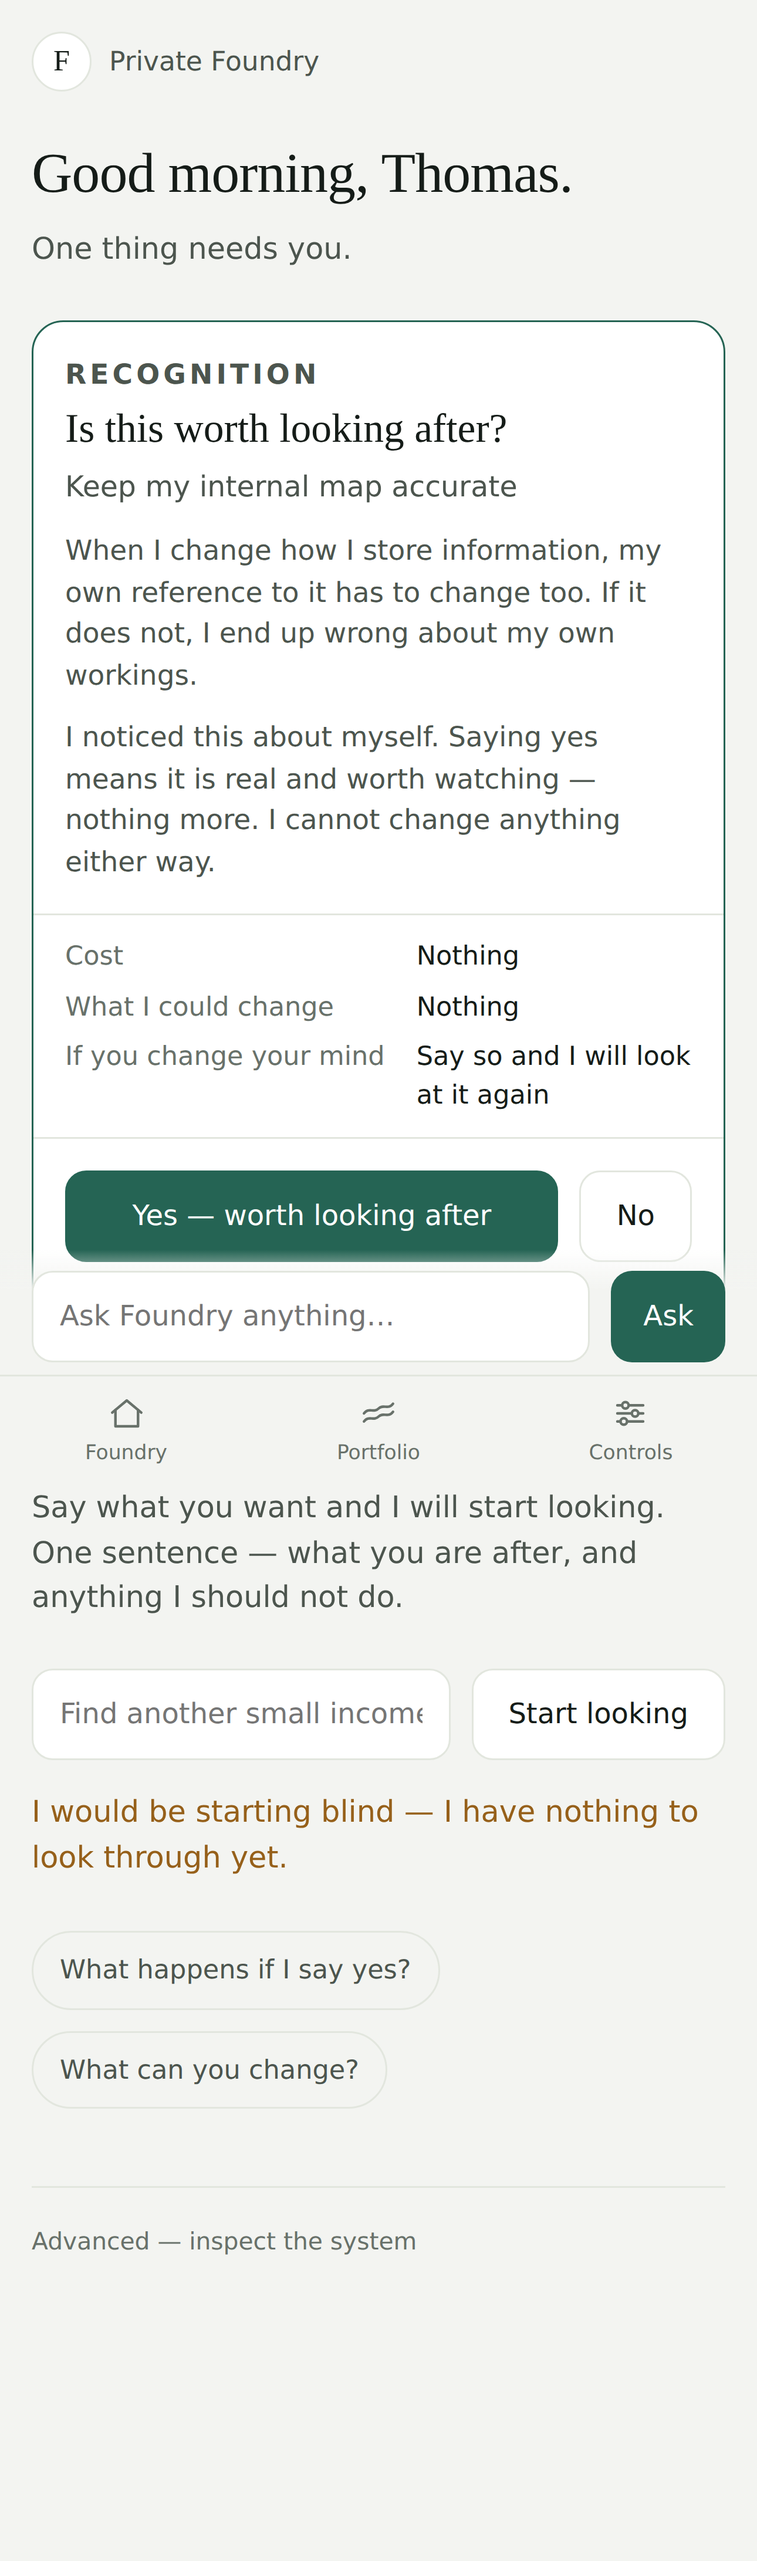
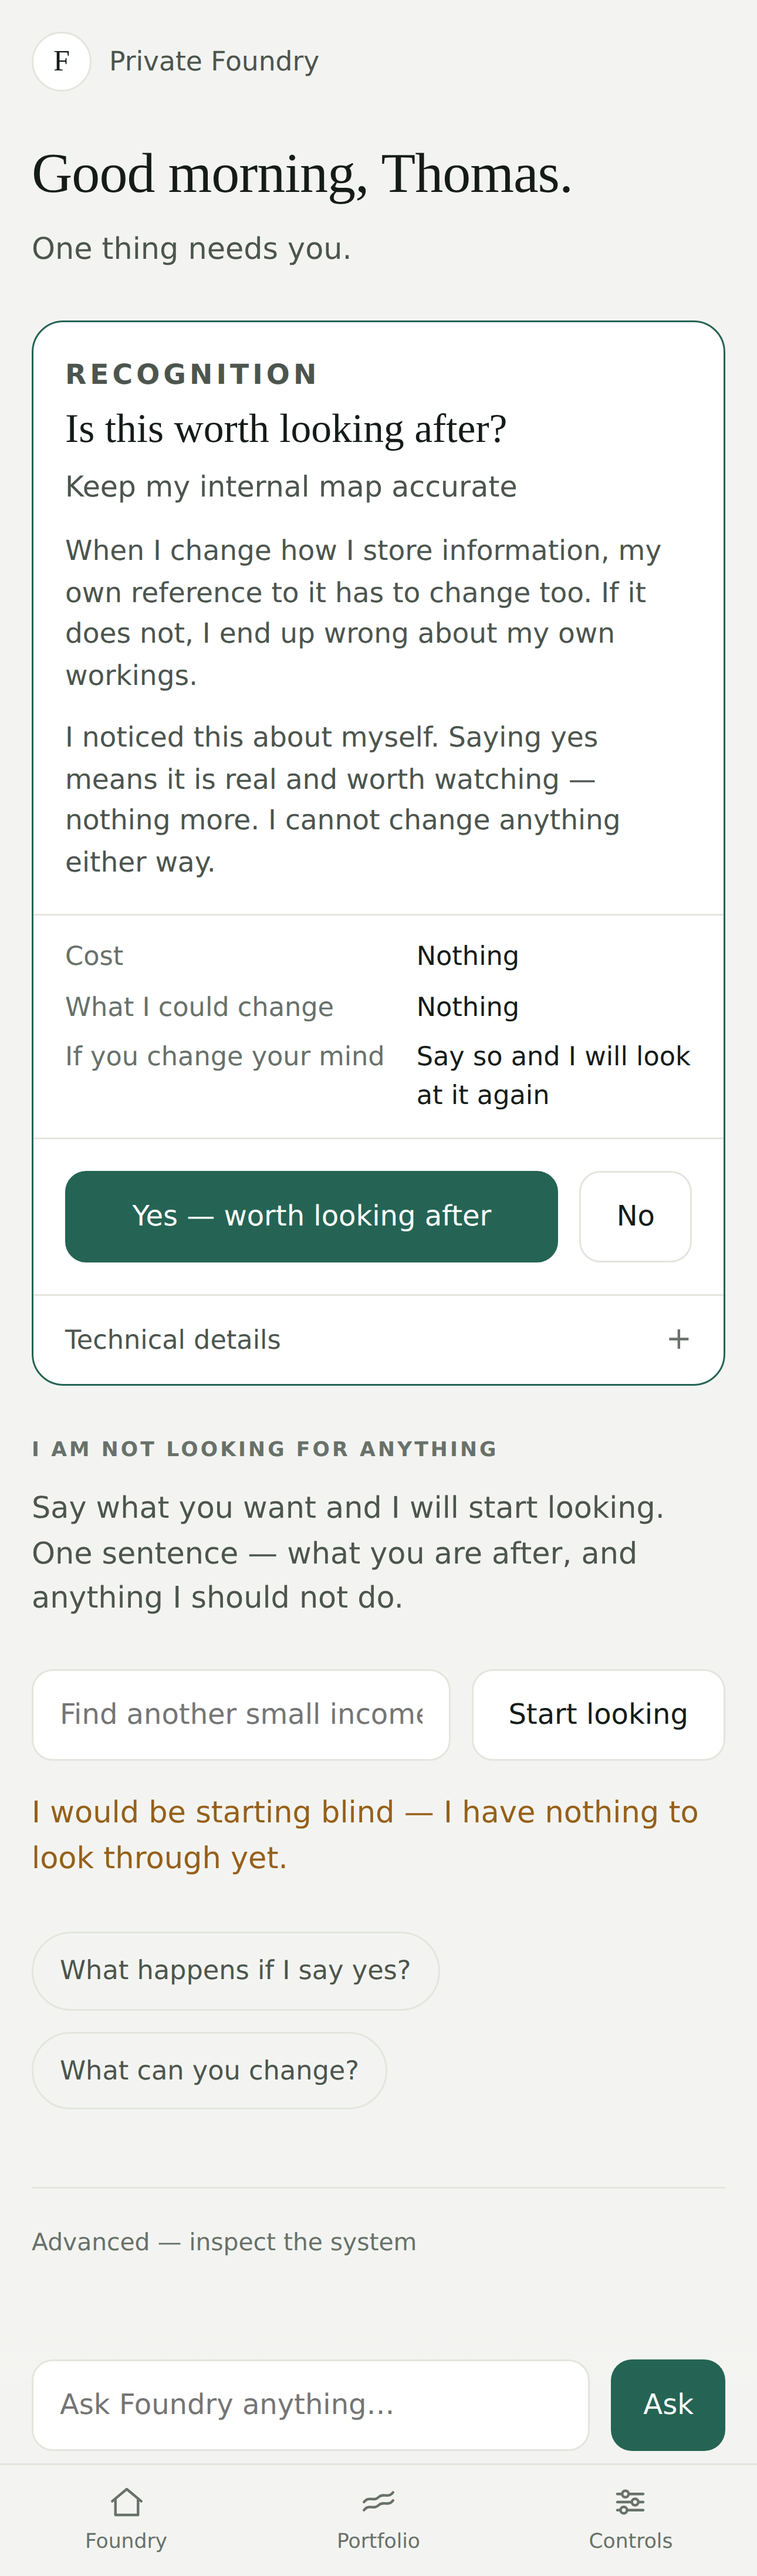
The phone he actually uses [deploy-private]
THE HOME INDICATOR WAS COUNTED TWICE. The tab bar reserves it, and the composer
sits on top of the tab bar and reserved it again — so on a notched iPhone the
composer floated a further 34px up and took that much off the bottom of every
page. The inset is counted once now, and the page's own reserve knows about both
bars instead of being a flat figure that knew about neither.

THE KEYBOARD SWALLOWED THE ENTRANCE. The composer is pinned to the bottom of the
window, and on iOS the software keyboard does not resize the window — so the one
field on the surface he types a mandate into sat behind the keyboard the moment
he started typing. It rides on the visual viewport now.

THE TEXTAREA HAD NO RULE AT ALL. The field he types eight hundred characters into
fell to the browser default, below the 16px floor, which makes iOS zoom in on
focus and never zoom back out. It now gets the same treatment as every other
field.

NOTHING HAPPENED WHEN HE PRESSED A BUTTON. Every page here is rendered by the
server, so between the tap and the next screen there was no spinner, no disabled
button, no change of any kind. On a slow connection that reads as a dead button,
and the honest response to a dead button is to press it again. There is a
delayed pending state now — delayed so a fast submission does not flicker.

AND THE KEYBOARD ITSELF. The fields gave iOS no hints, so the return key said
the wrong thing on every one of them and autocorrect was left to chance. The ask
[…]

diff --git a/src/routes/dashboard/foundry-shell.ts b/src/routes/dashboard/foundry-shell.ts
@@ -839,7 +839,11 @@ const page = (title: string, body: HtmlEscapedString | Promise<HtmlEscapedString
     font:400 17px/1.5 ui-sans-serif,system-ui,-apple-system,"Segoe UI",sans-serif;
     -webkit-text-size-adjust:100%;-webkit-font-smoothing:antialiased;
   }
-  .wrap{max-width:34rem;margin:0 auto;padding:var(--s3) var(--s3) 10.5rem}
+  /* ENOUGH ROOM FOR BOTH BARS AND THE HOME INDICATOR. The reserve was a flat
+     10.5rem that did not know about the inset, so on a notched phone the last
+     lines of every page sat underneath the composer. */
+  .wrap{max-width:34rem;margin:0 auto;
+    padding:var(--s3) var(--s3) calc(11rem + env(safe-area-inset-bottom))}
   h1{font-family:var(--serif);font-size:2rem;line-height:1.15;font-weight:500;
     letter-spacing:-.01em;margin:0 0 var(--s2)}
   .brand{display:flex;align-items:center;gap:10px;margin:0 0 var(--s4);color:var(--ink-2);
@@ -985,9 +989,13 @@ const page = (title: string, body: HtmlEscapedString | Promise<HtmlEscapedString
     display:inline-flex;align-items:center}
   .maybe a:focus-visible{outline:2px solid var(--accent);outline-offset:2px}
 
-  .ask{position:fixed;left:0;right:0;bottom:0;background:var(--bg);
+  .ask{position:fixed;left:0;right:0;bottom:var(--kb,0px);background:var(--bg);
     border-top:1px solid var(--line);
-    padding:var(--s2) var(--s3) calc(var(--s2) + env(safe-area-inset-bottom))}
+    /* THE INSET IS COUNTED ONCE. The tab bar below already reserves the home
+       indicator, and the composer sits on top of the tab bar — adding it again
+       here pushed the composer up by the height of the indicator a second time
+       and took that much off the bottom of every page. */
+    padding:var(--s2) var(--s3)}
   .ask-in{max-width:34rem;margin:0 auto;display:flex;gap:var(--s2)}
   .ask input{flex:1;min-width:0;font:inherit;font-size:max(16px,1rem);padding:13px 15px;min-height:48px;
     border:1px solid var(--line);border-radius:12px;background:var(--card);color:var(--ink)}
@@ -1010,7 +1018,7 @@ const page = (title: string, body: HtmlEscapedString | Promise<HtmlEscapedString
     stroke-linecap:round;stroke-linejoin:round}
   nav.places a.on{color:var(--accent)}
   nav.places a:focus-visible{outline:2px solid var(--accent);outline-offset:-2px;border-radius:8px}
-  .ask{bottom:calc(58px + env(safe-area-inset-bottom));border-top:0;
+  .ask{bottom:calc(58px + env(safe-area-inset-bottom) + var(--kb,0px));border-top:0;
     background:linear-gradient(to top,var(--bg) 70%,transparent)}
   .item{display:block;text-decoration:none;color:inherit;background:var(--card);
     border:1px solid var(--line);border-radius:var(--r);padding:var(--s3);margin:0 0 var(--s2)}
@@ -1040,7 +1048,10 @@ const page = (title: string, body: HtmlEscapedString | Promise<HtmlEscapedString
   .pair form:first-child{flex:1 1 auto}
   .pair .btn{white-space:nowrap}
   form.inline{display:flex;flex-wrap:wrap;gap:var(--s2);margin:0 0 var(--s3)}
-  form.inline input[type=text]{flex:1 1 12rem;min-width:0;font:inherit;font-size:max(16px,1rem);
+  /* THE TEXTAREA HAD NO RULE AT ALL, so it fell to the browser default —
+     below the 16px floor, which makes iOS zoom in on focus and never zoom back
+     out. It is the field he types a whole mandate into. */
+  form.inline input[type=text],textarea{flex:1 1 12rem;min-width:0;font:inherit;font-size:max(16px,1rem);
     padding:13px 15px;min-height:48px;border:1px solid var(--line);border-radius:12px;
     background:var(--card);color:var(--ink)}
   form.inline input:focus-visible{outline:2px solid var(--accent);outline-offset:1px}
@@ -1090,7 +1101,8 @@ ${body}
 <form class="ask" method="GET" action="/foundry">
   <div class="ask-in">
     <label for="q" class="sr">Ask Foundry anything</label>
-    <input id="q" name="q" placeholder="Ask Foundry anything…" autocomplete="off" />
+    <input id="q" name="q" type="search" enterkeyhint="search" autocorrect="on"
+      autocapitalize="sentences" spellcheck="true" placeholder="Ask Foundry anything…" />
     <button type="submit">Ask</button>
   </div>
 </form>
@@ -2122,7 +2134,8 @@ foundryShellRoutes.get('/foundry', async (c) => {
       <p class="lede">Name one and I will start paying attention to it. That is all it
         does &mdash; it does not connect anything or let me act.</p>
       <form class="inline" method="POST" action="/foundry/companies">
-        <input type="text" name="name" required maxlength="80"
+        <input type="text" name="name" required maxlength="80" enterkeyhint="done"
+          autocapitalize="words" autocorrect="off" spellcheck="false"
           placeholder="What is it called?" aria-label="The name of a company you own" />
         <button class="btn go" type="submit">Add it</button>
       </form>
@@ -2136,7 +2149,8 @@ foundryShellRoutes.get('/foundry', async (c) => {
       <form class="inline" method="POST" action="/foundry/ask">
         <input type="text" name="said" required maxlength="300"
           placeholder="Find another small income stream. Keep legal risk low."
-          aria-label="What to look for, and what not to do" />
+          aria-label="What to look for, and what not to do" enterkeyhint="send" autocapitalize="sentences"
+          autocorrect="on" spellcheck="true" />
         <!-- SECONDARY, DELIBERATELY. The one primary action on this screen is
              whatever actually needs him; an offer to go looking is an offer,
              and two things styled as the decision is one thing too many. -->
@@ -3033,7 +3047,8 @@ foundryShellRoutes.get('/foundry/companies/:id', async (c: any) => {
       <form class="inline" method="POST" action="/foundry/companies/${view.id}/said">
         <input type="text" name="said" required maxlength="300"
           placeholder="${view.said ? 'Say something else' : 'What matters here — or what should I not do?'}"
-          aria-label="What matters for this company, or what Foundry should not do" />
+          aria-label="What matters for this company, or what Foundry should not do" enterkeyhint="send" autocapitalize="sentences"
+          autocorrect="on" spellcheck="true" />
         <button class="btn" type="submit">Tell me</button>
       </form>
       <p class="quiet">Tell me what this company is for, or tell me not to do something and
@@ -3241,7 +3256,8 @@ async function absorbAndAnswer(
       </div>
       <form class="inline" method="POST" action="/foundry/ask">
         <input type="text" name="said" maxlength="800"
-          placeholder="Say it another way" aria-label="Say it another way" />
+          placeholder="Say it another way" aria-label="Say it another way" enterkeyhint="send" autocapitalize="sentences"
+          autocorrect="on" spellcheck="true" />
         <button class="btn" type="submit">Tell me</button>
       </form>
       <a class="btn go" href="/foundry">Back</a>`, 'foundry'));
@@ -3344,7 +3360,7 @@ foundryShellRoutes.post('/foundry/ask', requireInstitutionOwner(), async (c: any
       <p class="quiet">Change anything you like and send it again.</p>
       <form method="POST" action="/foundry/ask">
         <textarea name="said" rows="4" maxlength="800"
-          aria-label="What you want">${door.said}</textarea>
+          aria-label="What you want" enterkeyhint="send" autocapitalize="sentences" spellcheck="true">${door.said}</textarea>
         <button class="btn go" type="submit">Send it again</button>
       </form>
     </div>

diff --git a/src/lib/owner-surface-script.ts b/src/lib/owner-surface-script.ts
@@ -34,7 +34,30 @@ import { createHash } from 'node:crypto';
 export const OWNER_SURFACE_SCRIPT =
   `\n  (function(){var e=document.getElementById('greet');if(!e)return;`
   + `var h=new Date().getHours();\n`
-  + `    e.textContent=h<12?'Good morning':h<18?'Good afternoon':'Good evening';})();\n`;
+  + `    e.textContent=h<12?'Good morning':h<18?'Good afternoon':'Good evening';})();\n`
+  // THE KEYBOARD SWALLOWED THE ENTRANCE.
+  //
+  // The composer is fixed to the bottom of the window. On iOS the software
+  // keyboard does not resize the window, so the bar he is typing into sits
+  // behind the keyboard — the one place on the surface he types a mandate,
+  // covered by the act of typing. visualViewport reports what is actually
+  // visible; the bar rides on top of it.
+  + `  (function(){var v=window.visualViewport;if(!v)return;`
+  + `var r=document.documentElement;\n`
+  + `    function s(){r.style.setProperty('--kb',`
+  + `Math.max(0,window.innerHeight-v.height-v.offsetTop)+'px');}\n`
+  + `    v.addEventListener('resize',s);v.addEventListener('scroll',s);s();})();\n`
+  // AND SOMETHING HAPPENS WHEN HE PRESSES THE BUTTON.
+  //
+  // Every page here is rendered by the server, so between the tap and the next
+  // screen there was nothing at all: no spinner, no disabled button, no change
+  // of any kind. On a slow connection that reads as a dead button, and the
+  // honest response to a dead button is to press it again. The delay keeps a
+  // fast submission from flickering.
+  + `  document.addEventListener('submit',function(e){`
+  + `var f=e.target;if(!f||f.dataset.busy)return;f.dataset.busy='1';\n`
+  + `    var b=f.querySelector('button[type=submit],button:not([type])');if(!b)return;\n`
+  + `    setTimeout(function(){b.disabled=true;b.textContent='Working…';},120);},true);\n`;
 
 /** Its CSP source expression. Recomputed from the constant, never hand-written. */
 export const OWNER_SURFACE_SCRIPT_HASH =
